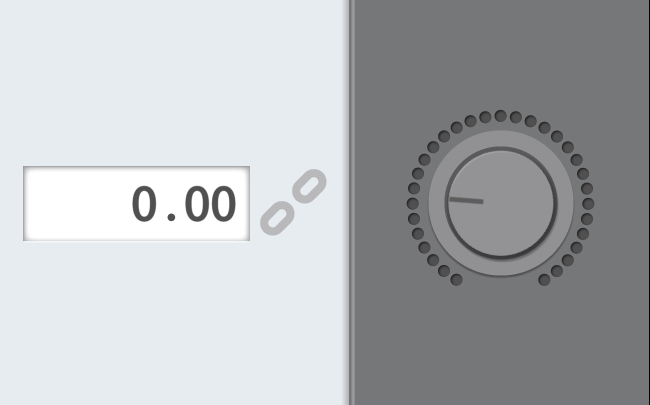
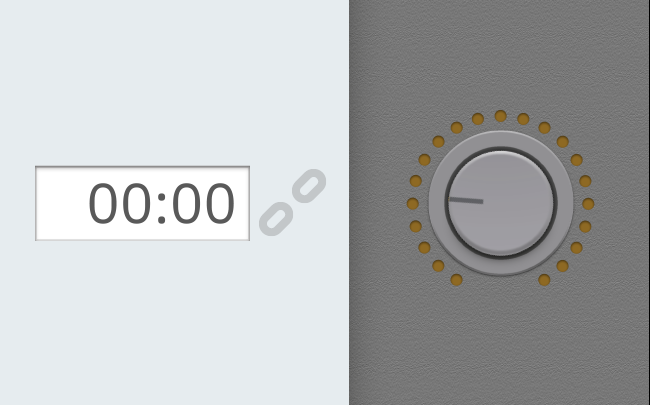
Update the 'Mapping' gif
And mention the animations author.

diff --git a/src/components/case-automation.js b/src/components/case-automation.js
@@ -167,7 +167,12 @@ export default function CasePw(props) {
                 {/* '↑ Click' or '↑ Tap' is chosen based on the media querry. */}
                 <figcaption className="figc-gifs-in-grid">
                   <span>
-                    ↑ Play any of the demos to see the principle in action
+                    ↑ Play any of the demos to see the principle in action.
+                    (Visualizations by{' '}
+                    <a href="https://www.facebook.com/olegpetro.babii">
+                      Oleg-Petro Babii
+                    </a>
+                    )
                   </span>
                 </figcaption>
               </div>
